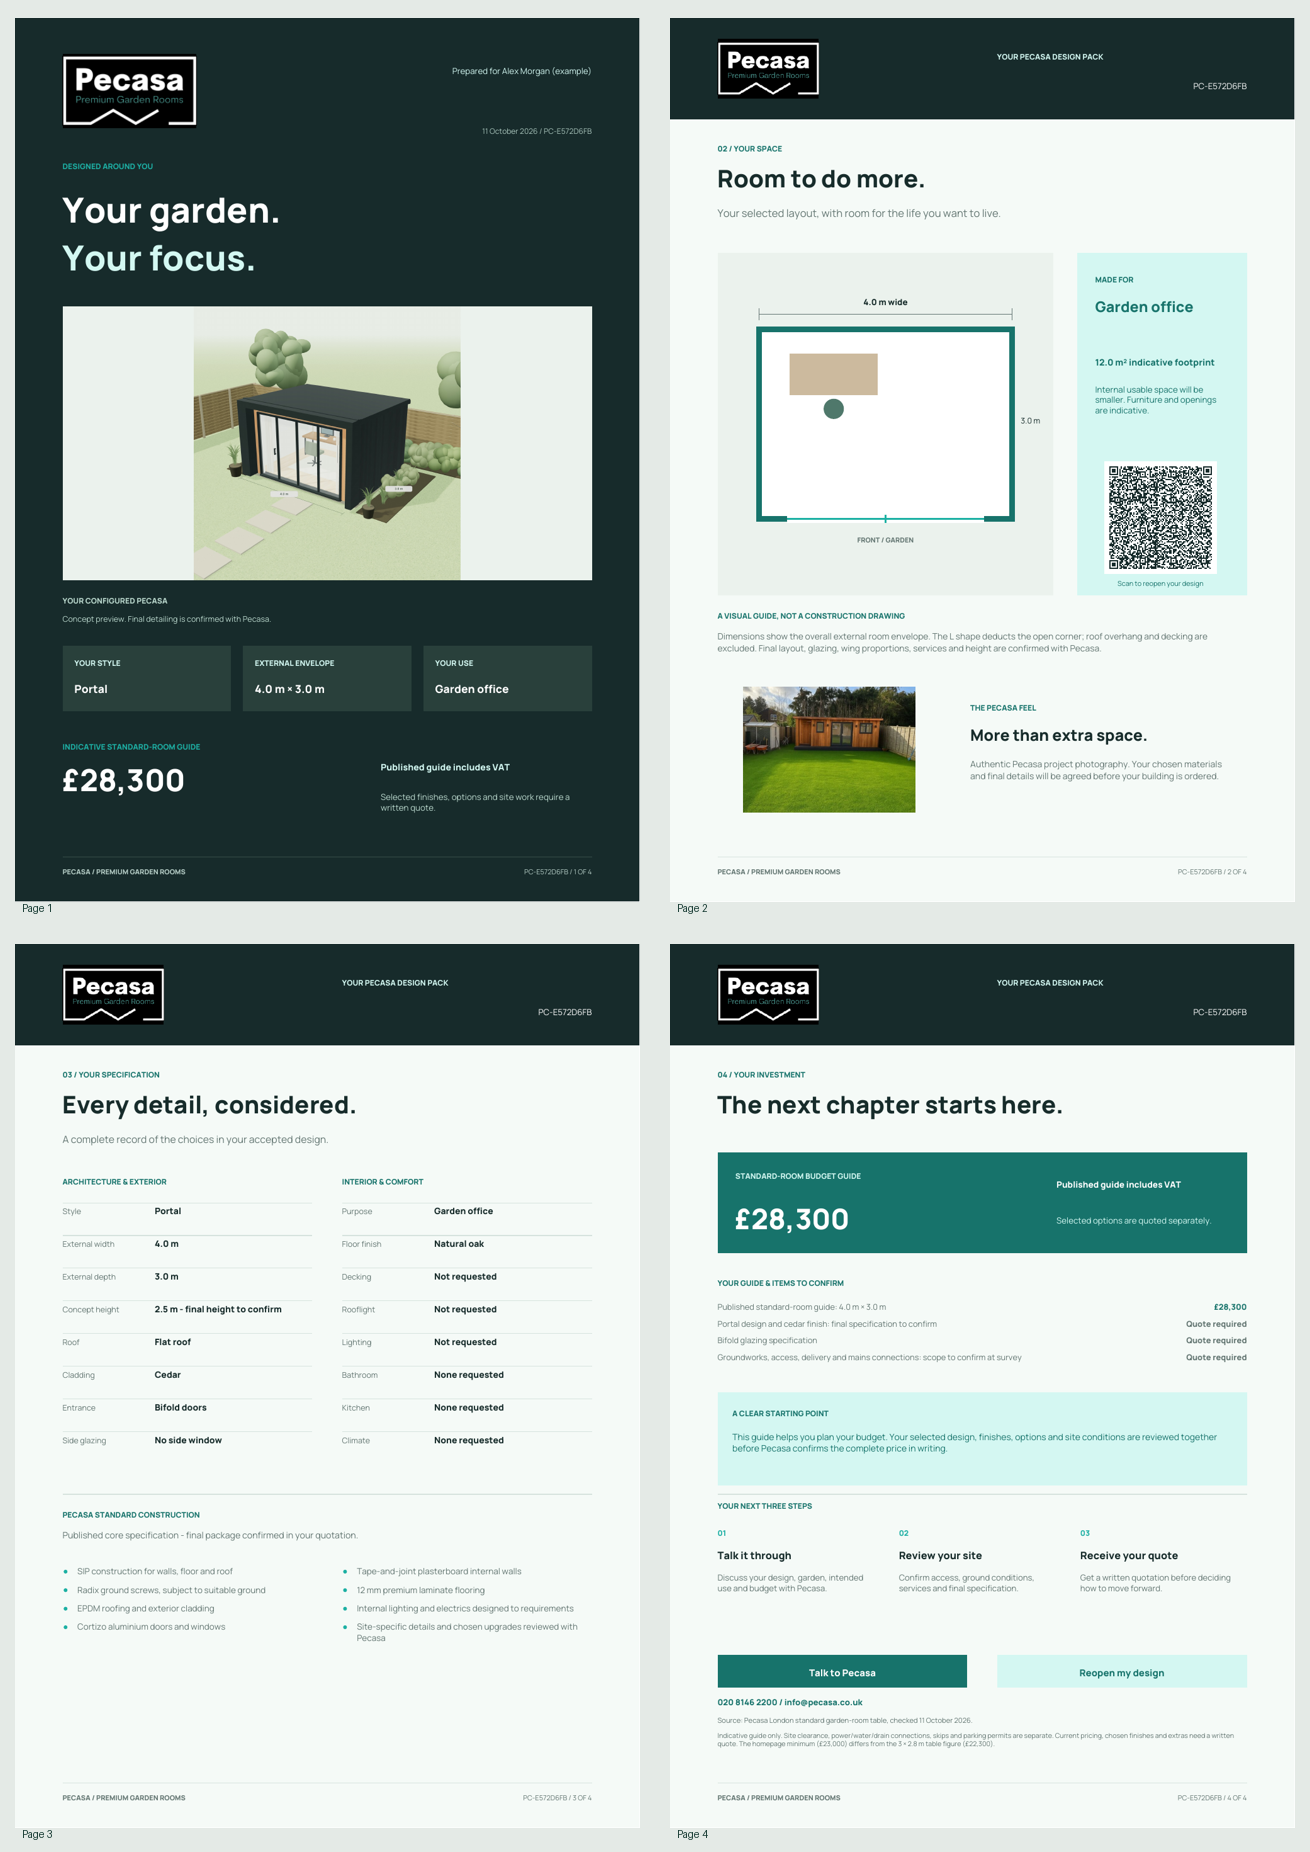
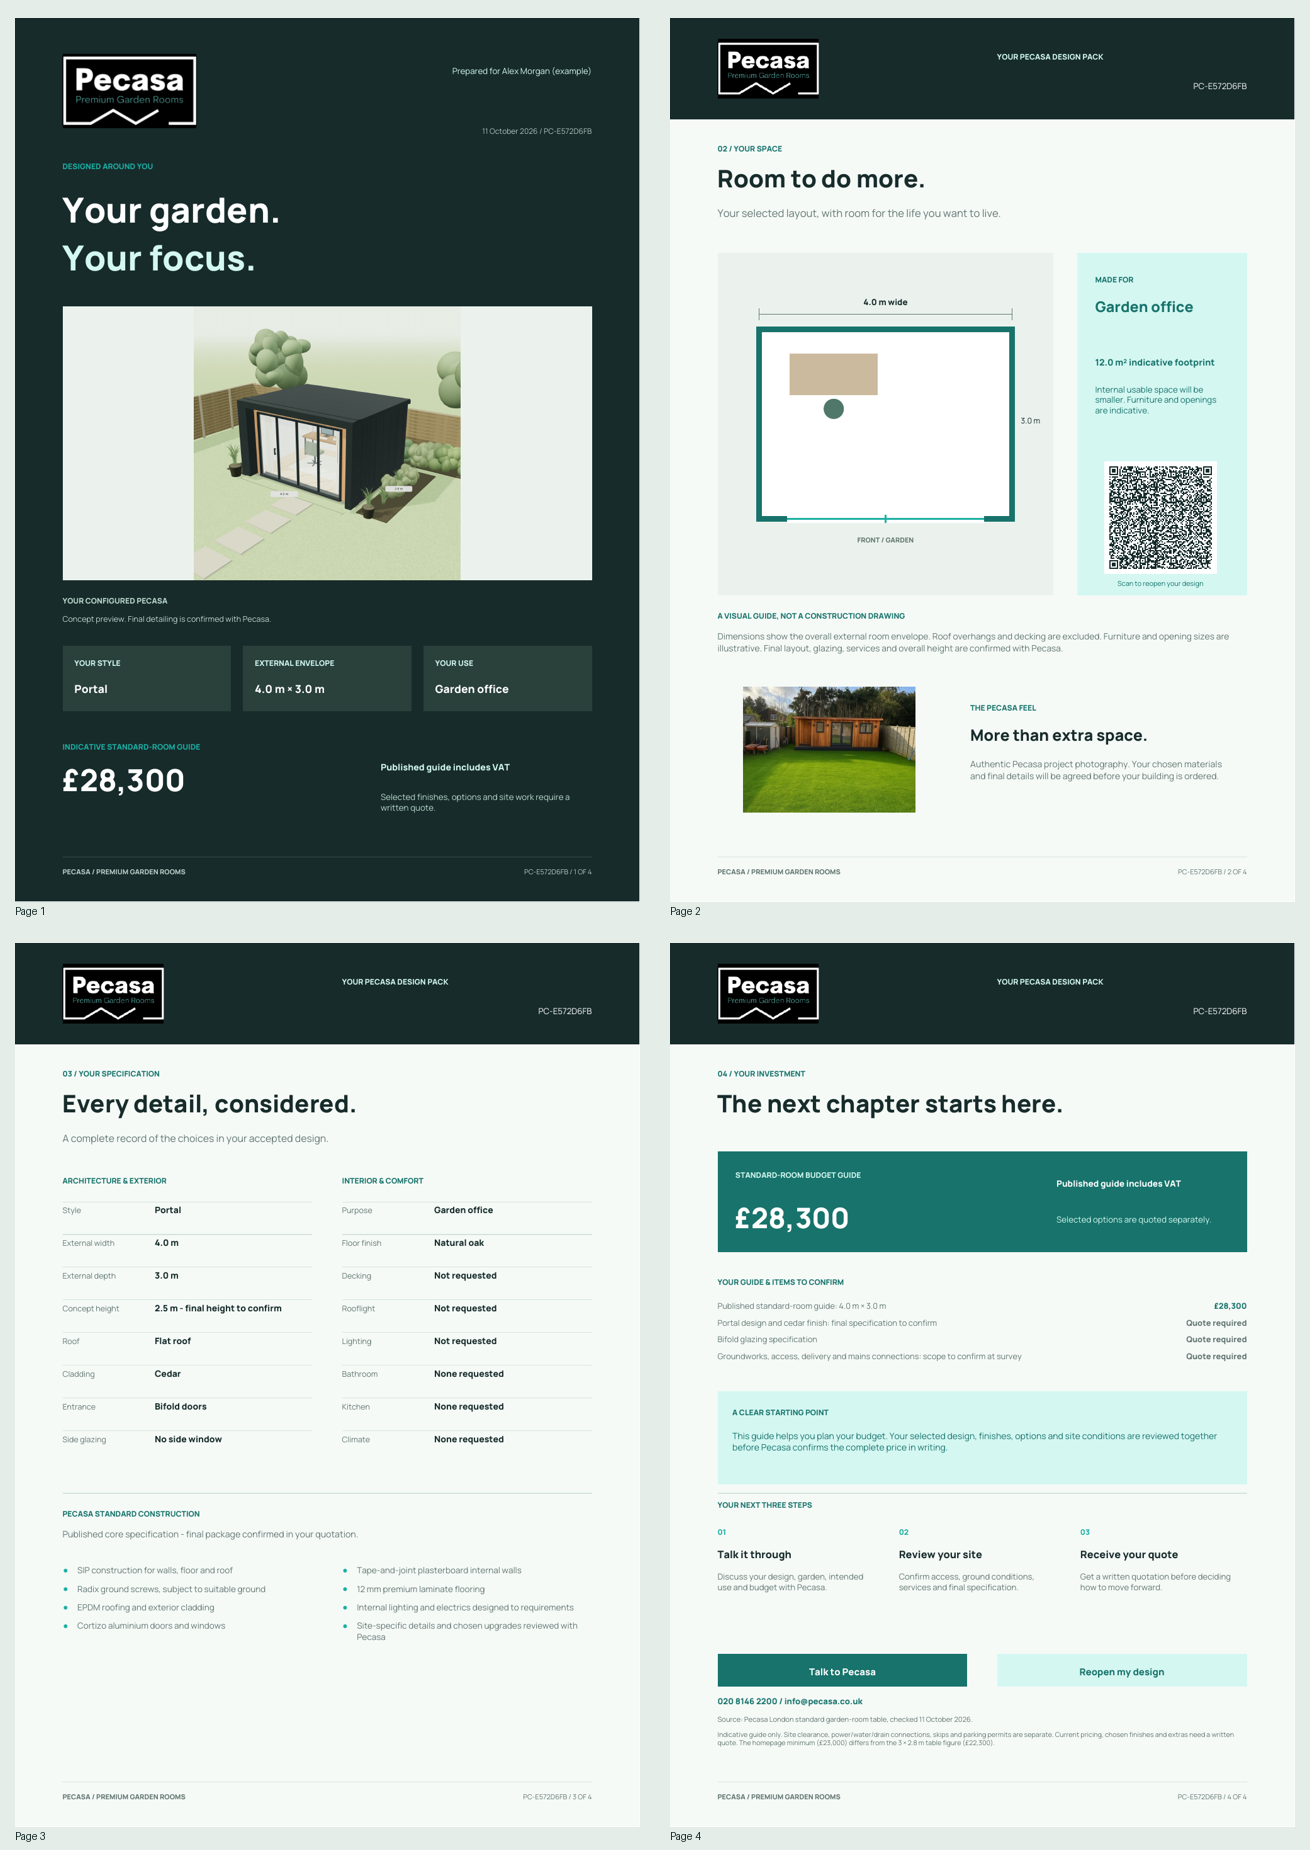
Apply PDF QA corrections and refresh design-pack evidence

diff --git a/qa/PDF-AUDIT.md b/qa/PDF-AUDIT.md
@@ -1,0 +1,22 @@
+# PDF QA follow-up - 11 October 2026
+
+The standard four-page example and five stress variants were checked after corrections: 24 rendered pages in total. Variants cover all extras, an 80-character name with unsupported glyphs, a minimum 2 × 2 m L-Shape with kitchenette and bathroom, a maximum Veranda, and a maximum Pergola.
+
+## Corrected findings
+
+1. Rectangular plan notes mentioned an L-shaped cut-out. Notes now describe the selected building style, including the enclosed-room envelope for Veranda and the open structure for Pergola.
+2. Furniture overlapped the kitchenette and crossed the recessed front of the smallest L-Shape. Metre-based placement checks now reject symbols that collide with selected fixtures or extend outside the main room body. The PDF also clips furniture and fittings to the room outline. Furniture is omitted when the selected footprint cannot depict it clearly.
+3. Accepted name characters outside Manrope's glyph coverage silently disappeared. The cover checks the embedded font's actual glyph map. Unsupported names receive “Prepared for your project”; the full name remains in the private enquiry record. Supported names retain the personal salutation and wrap correctly.
+4. A Pergola investment callout could have text below its mint background. The optional callout is now shown only when sufficient vertical space is available. The quote rows, next steps, source and footer retain clear spacing.
+
+## Verification
+
+- All 24 final pages rendered and visually inspected, with no material layout regressions.
+- All 20 automated backend/geometry tests pass, including six furniture placement regressions.
+- Main example: Portal 4 × 3 m, cedar, bifold doors, no side window or optional extras; published £28,300 standard-room guide including VAT.
+- Stress price lists: all selected items recorded, up to 12 quote rows; unpriced options remain explicitly quoted separately. Bespoke structures show no invented numeric price.
+- The actual scene JPEG is accepted and embedded byte-for-byte. Embedded regular/bold Manrope fonts include ToUnicode maps for correct text extraction.
+- The main PDF's QR code was decoded from a 300 dpi page render and restores the exact design on the live Netlify origin. PDF annotations contain the correct public design, company email and pricing source links; no contact details or private bearer tokens in share links.
+- Page size is A4 throughout; document titles, references, page numbering, footers and source wording remain consistent.
+
+The updated [example](../docs/examples/pecasa-example-design-pack.pdf) and [four-page preview](live-pdf-pages.png) are included alongside the source. Private stress fixtures and receipts are excluded from Git.

diff --git a/qa/REPORT.md b/qa/REPORT.md
@@ -24,6 +24,8 @@ Implementation tree on GitHub: `2c1920f8099870141b568444ca1006a83d516278`.
 
 ## Evidence
 
+The follow-up [PDF audit](PDF-AUDIT.md) corrected style-specific notes, small-room furniture placement, unsupported-name rendering and a Pergola callout. The refreshed example and page preview below include these fixes. The suite now has 20 passing tests.
+
 - [Desktop](live-desktop.jpg)
 - [Mobile](live-mobile.jpg)
 - [Unlocked mobile estimate](live-mobile-estimate.jpg)
